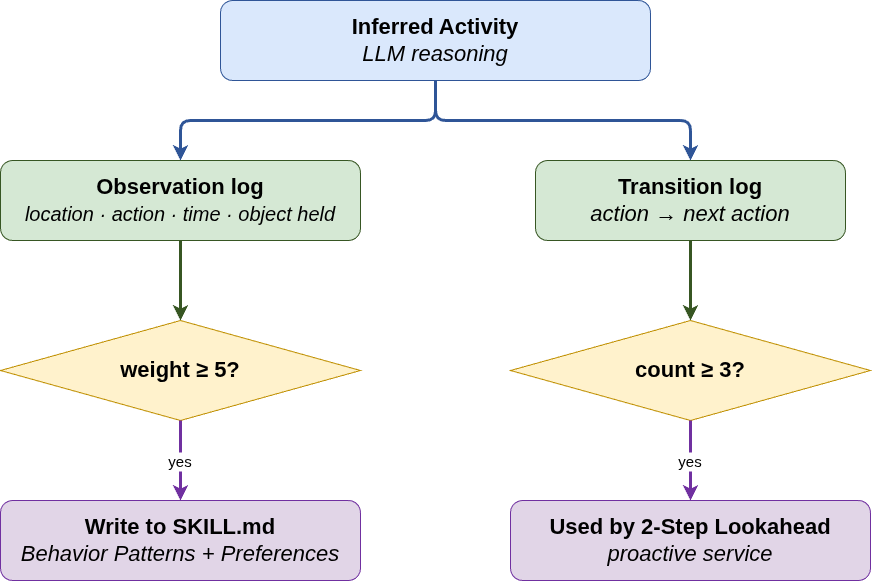
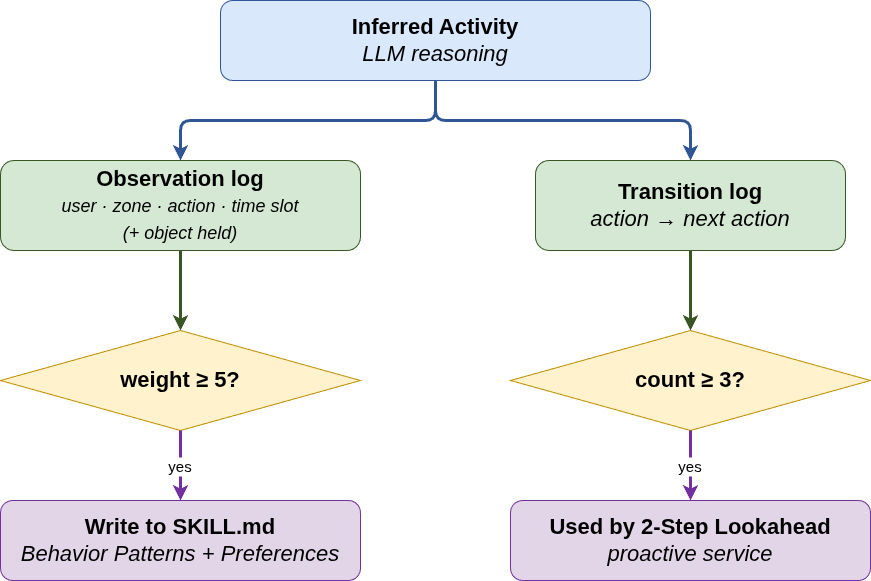
update

diff --git a/analysis/exp2_har_corruption.py b/analysis/exp2_har_corruption.py
@@ -82,7 +82,7 @@ def plot_accuracy_drop(results: dict, save_path: str):
     ax.set_xticklabels(tick_labels, fontsize=XTICK_FONT)
     ax.set_ylabel("Accuracy (%)", fontsize=FONT_AXIS)
     ax.set_ylim(0, 110)
-    ax.set_title("HAR Accuracy vs Sensor Corruption Level",
+    ax.set_title("HAR Accuracy vs. Corruption Level",
                  fontsize=FONT_TITLE, fontweight="bold", pad=10)
 
     plt.tight_layout()
